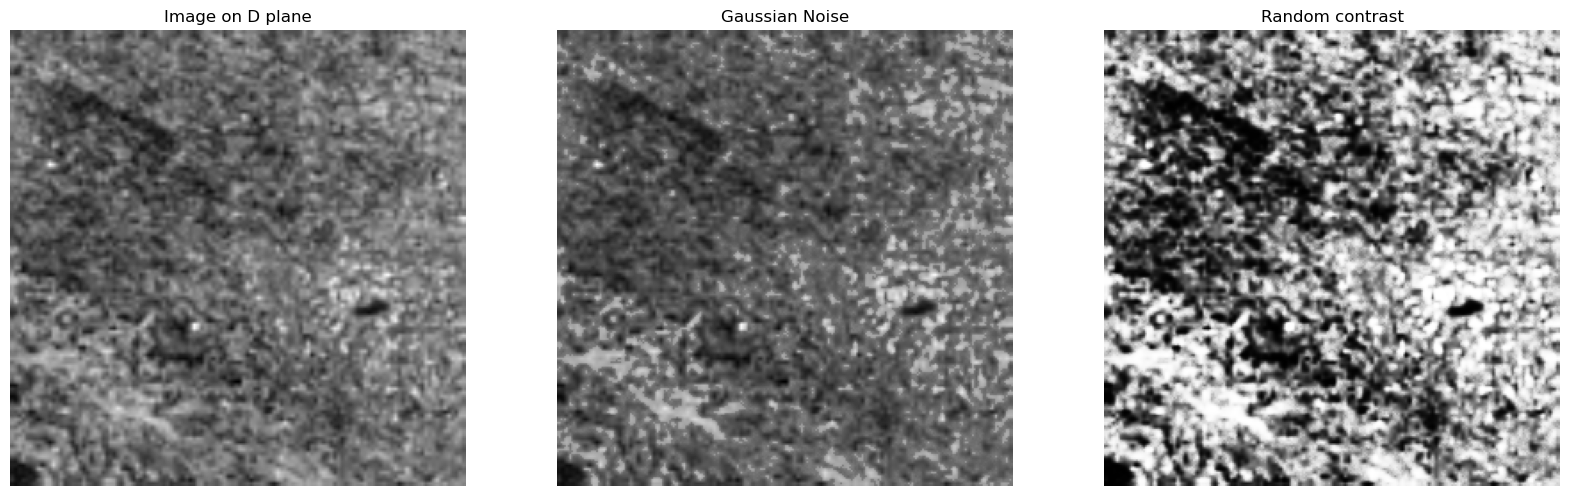
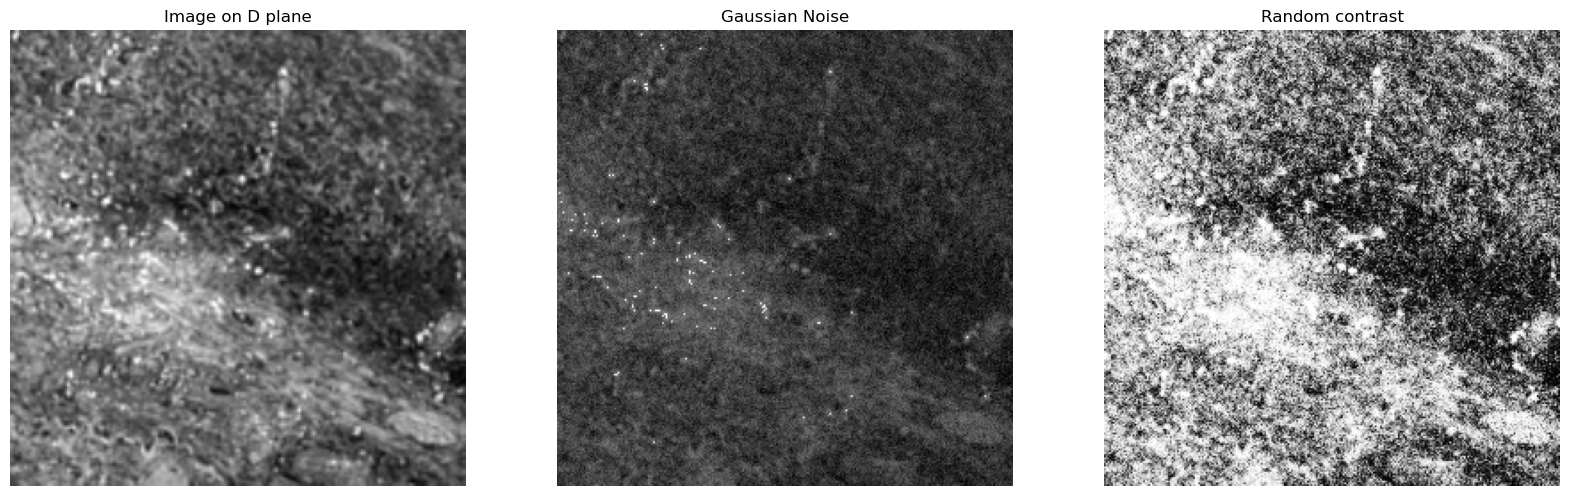
2022 11 24b: ..

diff --git a/libs/Dataloader.py b/libs/Dataloader.py
@@ -14,7 +14,7 @@ class CustomDataset(Dataset):
     def __init__(self,
                  images_folder,
                  labels_folder=None,
-                 data_format='np',
+                 data_format='np', # np for numpy and the default is nii
                  output_shape=(160, 160),
                  full_orthogonal=0,
                  gaussian_aug=1,
@@ -168,11 +168,11 @@ def getData(data_directory,
 
         train_dataset_unlabelled = CustomDataset(images_folder=train_image_folder_unlabelled,
                                                  zoom_aug=0,
-                                                 contrast_aug=contrast_aug,
+                                                 contrast_aug=0,
                                                  output_shape=output_shape,
                                                  data_format=data_format,
                                                  full_orthogonal=full_orthogonal,
-                                                 gaussian_aug=gaussian_aug
+                                                 gaussian_aug=0
                                                  )
 
         train_loader_unlabelled = data.DataLoader(dataset=train_dataset_unlabelled,

diff --git a/preprocessing/hipct_ppfe_cut_chunks.py b/preprocessing/hipct_ppfe_cut_chunks.py
@@ -1,6 +1,7 @@
 import os
 import numpy as np
 import pathlib
+import scipy
 import sys
 sys.path.append('..')
 from libs.Augmentations import norm95
@@ -46,7 +47,10 @@ if __name__ == '__main__':
         hh = h % new_dim // 2
         ww = w % new_dim // 2
 
-        img = img[:dd, hh:hh+new_dim, ww:ww+new_dim]
+        img = img[1412-800:, 311:311+800, 311:311+800]
+        # img = img[d - dd:, hh:h - hh - 1, ww:w - ww - 1]
+        d, h, w = np.shape(img)
+        print(np.shape(img))
 
         sub_imgs = np.split(img, d // new_dim, axis=0)
         for each_sub_img in sub_imgs:
@@ -54,7 +58,8 @@ if __name__ == '__main__':
             for each_sub_sub_img in sub_sub_imgs:
                 sub_sub_sub_imgs = np.split(each_sub_sub_img, w // new_dim, axis=2)
                 for each_sub_sub_sub_img in sub_sub_sub_imgs:
-                    np.save(save_path_img+str(count)+'img.npy', each_sub_sub_sub_img)
+                    # each_sub_sub_sub_img = scipy.ndimage.zoom(input=each_sub_sub_sub_img, zoom=(1, 160 // new_dim, 160 // new_dim), order=0)
+                    np.save(save_path_img + str(count) + 'img.npy', each_sub_sub_sub_img)
                     count += 1
 
     print('Done')

diff --git a/preprocessing/hipct_ppfe_check.py b/preprocessing/hipct_ppfe_check.py
@@ -7,7 +7,8 @@ from libs.Augmentations import *
 
 if __name__ == '__main__':
 
-    image_path = '/home/moucheng/projects_data/PPFE_HipCT/processed/imgs/35img.npy'
+    image_path = '/home/moucheng/projects_data/PPFE_HipCT/processed/imgs/2img.npy'
+    # image_path = '/home/moucheng/projects_data/PPFE_HipCT/processed/original_labelled/imgs.npy'
     # label_path = '/home/moucheng/projects_data/hipct_covid/class1.0/labelled/lbls/1lbl.npy'
 
     images = np.load(image_path)
@@ -15,8 +16,8 @@ if __name__ == '__main__':
     # images = images[:, 0:1200, 0:1200]
     # np.save('/home/moucheng/projects_data/PPFE_HipCT/processed/imgs.npy', images)
 
-    direction = 0
-    slice_index = 53
+    direction = 2
+    slice_index = 90
 
     if direction == 0:
         img = np.squeeze(images[slice_index, :, :])
@@ -27,7 +28,7 @@ if __name__ == '__main__':
     else:
         img = np.squeeze(images[:, :, slice_index])
 
-    img = norm95(img)
+    # img = norm95(img)
     img = resize(img, (256, 256), order=1)
     # lbl = resize(lbl, (256, 256), order=0)
 

diff --git a/Run.py b/Run.py
@@ -2,7 +2,6 @@
 import argparse
 from MainSemi import trainBPL
 from MainSup import trainSup
-
 # We use 0 or 1 for False or True as alternative for boolean operations in this argparse
 
 
@@ -49,8 +48,6 @@ def main():
     # flags for if we use fine-tuning on an trained model:
     parser.add_argument('--resume', type=int, help='resume training on an existing model', default=0)
     parser.add_argument('--checkpoint_path', type=str, help='path to the checkpoint model')
-
-    # flags to save the
 
     global args
     args = parser.parse_args()
